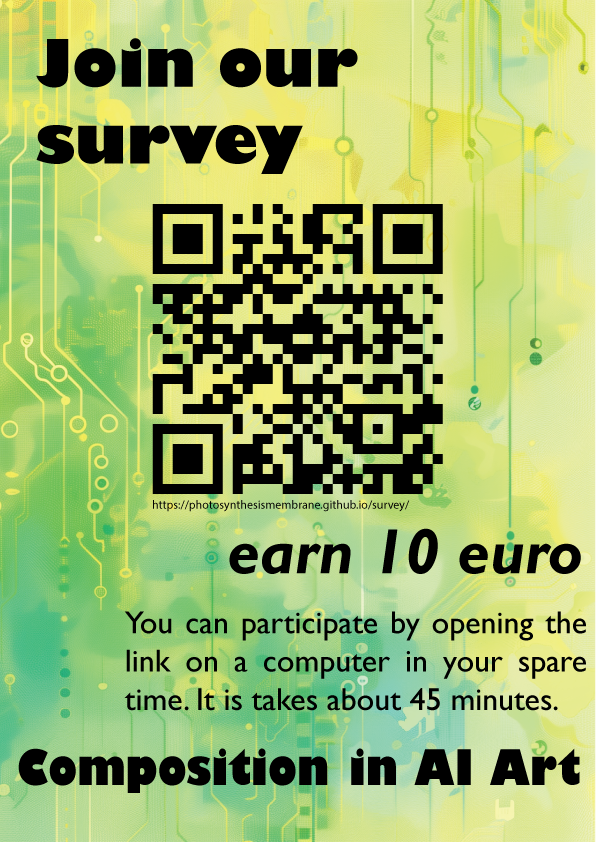
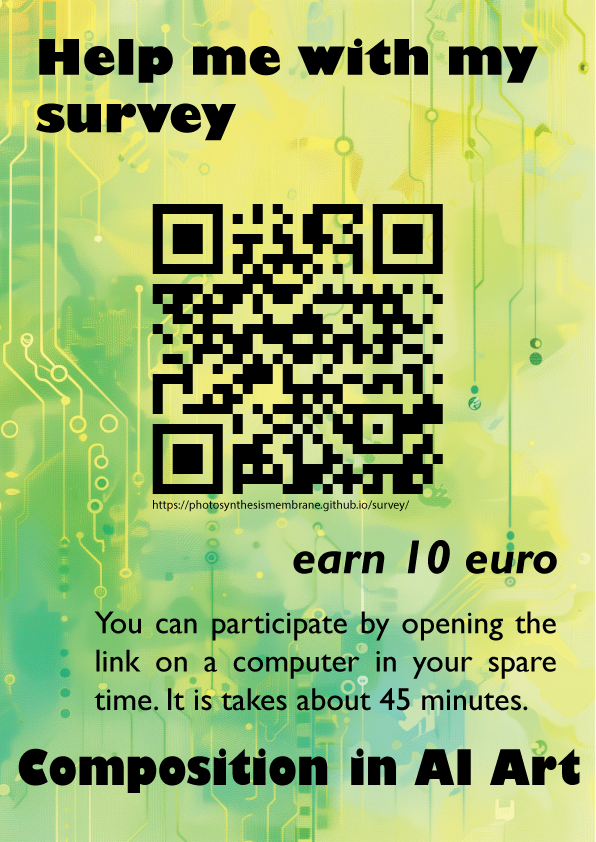
text and poster reworks

diff --git a/index.html b/index.html
@@ -293,7 +293,8 @@
                     </div>
                     <div class="text-field-container">
                         <p>Thank you for participating. We will send you 10 euro's when you carefully give us your opinion on the subjects.</p>
-                        <p>We used several ai vision language models to describe the composition of paintings. We use data like this to train an ai art generator for our research. We are interested in your opinion on the quality of the descriptions.</p>
+                        <p>I'm Tom Eijkelenkamp and I study Intelligent Systems and Visual Computing at the University of Groningen. I have a fascination for any kind of art form and so for my thesis I study AI art. The research is based around composition of generated art.</p>
+                        <p>I used several ai vision language models to describe the composition of paintings. Data as such I use to train an ai art generator for further research. I'm interested in your opinion on the quality of the descriptions.</p>
                         <p>The first half you are asked to select which of the two descriptions fits best. The second half you are asked to highlight parts of the text that you think are not fitting or could be improved. Each tab shows descriptions on a specific topic.</p>
                         <p>All the paintings come from the WikiArt dataset and do not belong to me. All the data is used for research purposes only. Your input will remain anonymous.</p>
                     </div>
